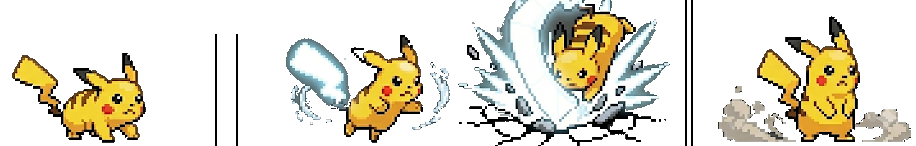
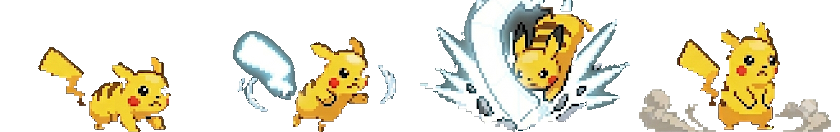
Clean grid dividers + label specks from move sequences
The strips still carried the source sheet's dark grid divider lines (and faint
label bits). Re-extract now also flood-fills dark pixels reachable from the crop
edges (removes dividers/borders, keeps Pikachu's interior outline) and drops
tiny <120px specks. Updated per-frame slice dimensions to match.

https://claude.ai/code/session_01VxtdS7ZrH1hWrAFvf9J2H2

diff --git a/sparkrunmath.html b/sparkrunmath.html
@@ -81,10 +81,10 @@ const roll = { frames:[], n:4, loaded:0, ready:false, scale:0.58 };
 // animated special-move sequences (4-frame strips: prep → charge → launch → aftermath)
 // h = on-screen height of a cell; ax = how far left of Pikachu's x the cell is anchored
 const MOVE_SEQ = {
-  qa:{ file:'pika_seq_qa.png', cw:512, ch:261, h:196, ax:0.34 },
-  tb:{ file:'pika_seq_tb.png', cw:472, ch:342, h:236, ax:0.34 },
-  eb:{ file:'pika_seq_eb.png', cw:236, ch:188, h:178, ax:0.34 },
-  it:{ file:'pika_seq_it.png', cw:229, ch:146, h:150, ax:0.40 },
+  qa:{ file:'pika_seq_qa.png', cw:498, ch:241, h:186, ax:0.34 },
+  tb:{ file:'pika_seq_tb.png', cw:468, ch:331, h:230, ax:0.34 },
+  eb:{ file:'pika_seq_eb.png', cw:214, ch:173, h:172, ax:0.34 },
+  it:{ file:'pika_seq_it.png', cw:210, ch:132, h:146, ax:0.40 },
 };
 for(const k in MOVE_SEQ){ const s=MOVE_SEQ[k]; s.n=4; s.img=new Image(); s.ready=false; s.img.onload=()=>{ s.ready=true; }; s.img.src=s.file; }
 function moveSeq(m){ return m ? MOVE_SEQ[m.key] : null; }
